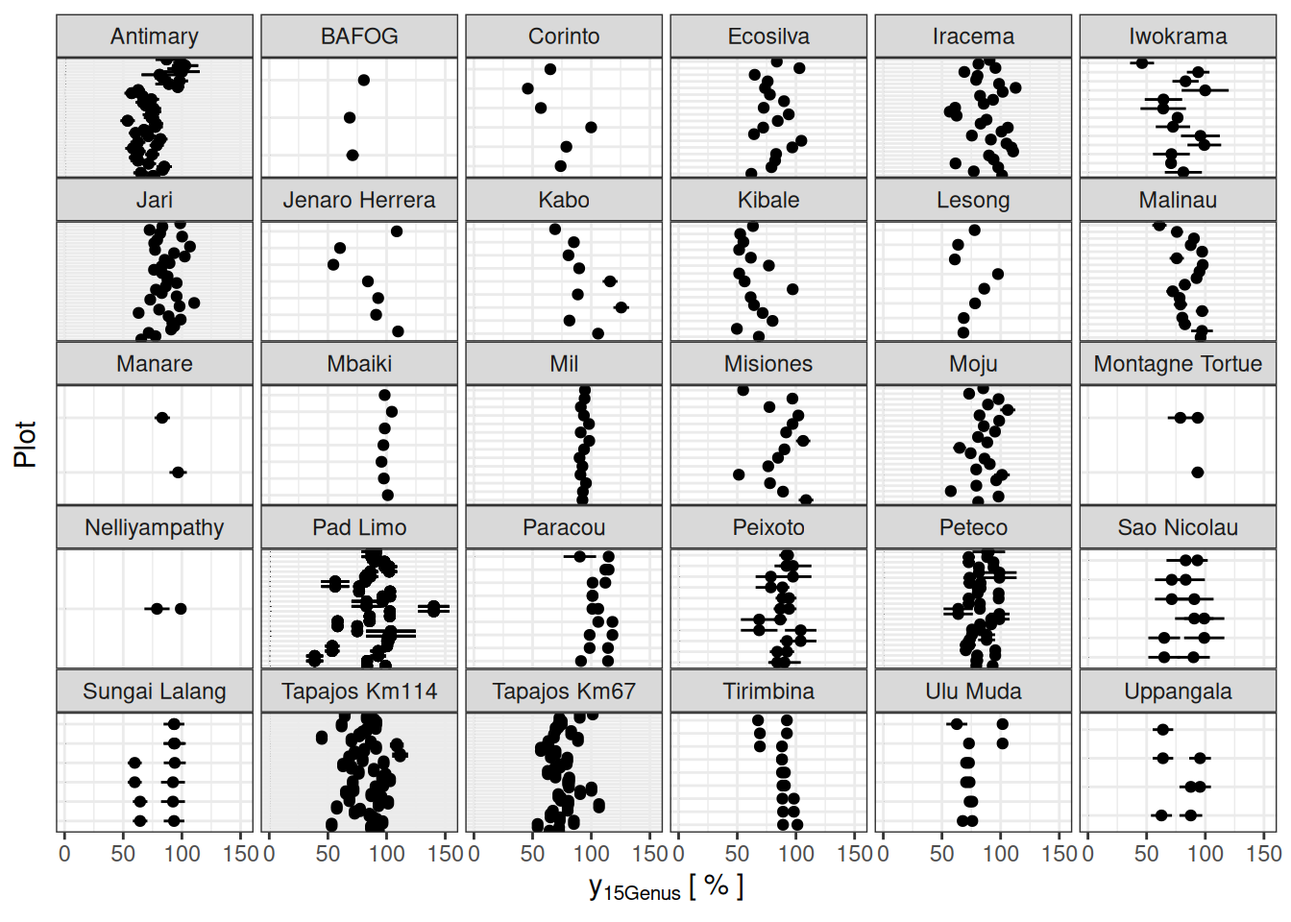
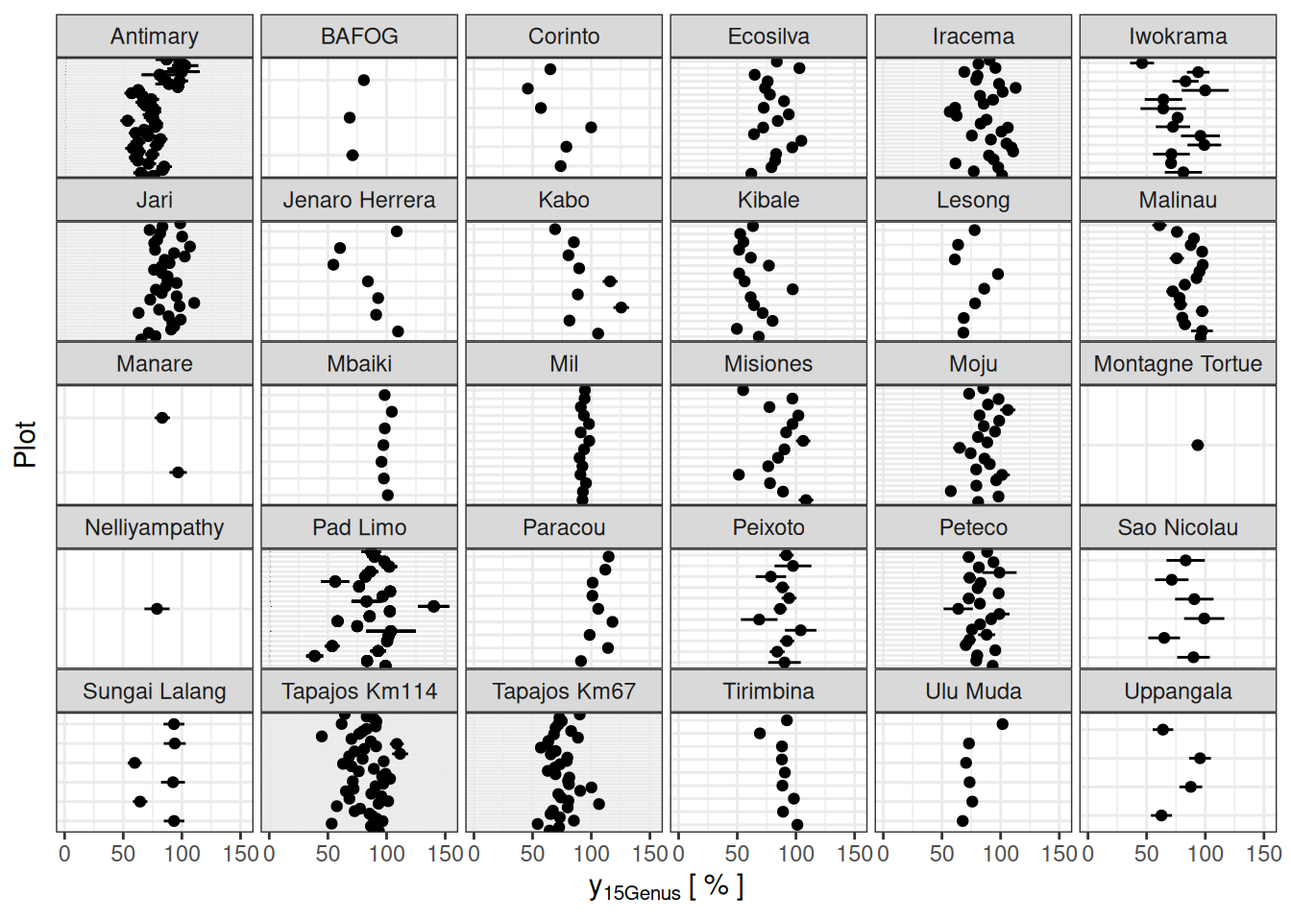
modelling 0.1.0.9043: plotnum fix in pars

diff --git a/docs/60_parameters.html b/docs/60_parameters.html
@@ -331,68 +331,69 @@ pre > code.sourceCode > span > a:first-child::before { text-decoration: underlin
 <div class="sourceCode cell-code" id="cb1"><pre class="sourceCode r code-with-copy"><code class="sourceCode r"><span id="cb1-1"><a href="#cb1-1" aria-hidden="true" tabindex="-1"></a><span class="fu">library</span>(cmdstanr)</span>
 <span id="cb1-2"><a href="#cb1-2" aria-hidden="true" tabindex="-1"></a>tmp_path <span class="ot">&lt;-</span> <span class="fu">file.path</span>(<span class="st">"outputs"</span>, <span class="st">"pars_tmp"</span>)</span>
 <span id="cb1-3"><a href="#cb1-3" aria-hidden="true" tabindex="-1"></a><span class="fu">dir.create</span>(tmp_path)</span>
-<span id="cb1-4"><a href="#cb1-4" aria-hidden="true" tabindex="-1"></a>index_p <span class="ot">&lt;-</span> <span class="fu">read_tsv</span>(<span class="st">"data/derived_data/data_rec.tsv"</span>) <span class="sc">%&gt;%</span></span>
-<span id="cb1-5"><a href="#cb1-5" aria-hidden="true" tabindex="-1"></a>  <span class="fu">select</span>(site, plot, sitenum, plotnum) <span class="sc">%&gt;%</span></span>
-<span id="cb1-6"><a href="#cb1-6" aria-hidden="true" tabindex="-1"></a>  <span class="fu">unique</span>()</span>
-<span id="cb1-7"><a href="#cb1-7" aria-hidden="true" tabindex="-1"></a>index_s <span class="ot">&lt;-</span> index_p <span class="sc">%&gt;%</span></span>
-<span id="cb1-8"><a href="#cb1-8" aria-hidden="true" tabindex="-1"></a>  <span class="fu">mutate</span>(<span class="at">plot =</span> <span class="cn">NA</span>, <span class="at">plotnum =</span> <span class="cn">NA</span>) <span class="sc">%&gt;%</span></span>
-<span id="cb1-9"><a href="#cb1-9" aria-hidden="true" tabindex="-1"></a>  <span class="fu">unique</span>()</span>
-<span id="cb1-10"><a href="#cb1-10" aria-hidden="true" tabindex="-1"></a>vars <span class="ot">&lt;-</span> <span class="fu">c</span>(</span>
-<span id="cb1-11"><a href="#cb1-11" aria-hidden="true" tabindex="-1"></a>  <span class="st">"ba"</span>, <span class="st">"agb"</span>, <span class="st">"nstem"</span>, <span class="st">"gini"</span>,</span>
-<span id="cb1-12"><a href="#cb1-12" aria-hidden="true" tabindex="-1"></a>  <span class="st">"diversity_q1_gen"</span>, <span class="st">"FDiv"</span>,</span>
-<span id="cb1-13"><a href="#cb1-13" aria-hidden="true" tabindex="-1"></a>  <span class="st">"WD_cwm_ba"</span>, <span class="st">"SLA_cwm_ba"</span></span>
-<span id="cb1-14"><a href="#cb1-14" aria-hidden="true" tabindex="-1"></a>)</span>
-<span id="cb1-15"><a href="#cb1-15" aria-hidden="true" tabindex="-1"></a><span class="cf">for</span> (var <span class="cf">in</span> vars) {</span>
-<span id="cb1-16"><a href="#cb1-16" aria-hidden="true" tabindex="-1"></a>  path <span class="ot">&lt;-</span> <span class="fu">file.path</span>(<span class="st">"chains"</span>, <span class="fu">paste0</span>(<span class="st">"rec_"</span>, var))</span>
-<span id="cb1-17"><a href="#cb1-17" aria-hidden="true" tabindex="-1"></a>  fit <span class="ot">&lt;-</span> <span class="fu">as_cmdstan_fit</span>(<span class="fu">list.files</span>(path, <span class="at">full.names =</span> <span class="cn">TRUE</span>))</span>
-<span id="cb1-18"><a href="#cb1-18" aria-hidden="true" tabindex="-1"></a>  pars_a <span class="ot">&lt;-</span> fit<span class="sc">$</span><span class="fu">summary</span>(<span class="fu">c</span>(</span>
-<span id="cb1-19"><a href="#cb1-19" aria-hidden="true" tabindex="-1"></a>    <span class="st">"lp__"</span>,</span>
-<span id="cb1-20"><a href="#cb1-20" aria-hidden="true" tabindex="-1"></a>    <span class="co"># "mu_phi", "mu_phipct",</span></span>
-<span id="cb1-21"><a href="#cb1-21" aria-hidden="true" tabindex="-1"></a>    <span class="st">"mu_delta"</span>, <span class="st">"mu_deltapct"</span>,</span>
-<span id="cb1-22"><a href="#cb1-22" aria-hidden="true" tabindex="-1"></a>    <span class="st">"mu_tau0"</span>, <span class="st">"mu_tau"</span>,</span>
-<span id="cb1-23"><a href="#cb1-23" aria-hidden="true" tabindex="-1"></a>    <span class="st">"mu_lambda"</span>, <span class="st">"mu_t90"</span></span>
-<span id="cb1-24"><a href="#cb1-24" aria-hidden="true" tabindex="-1"></a>  )) <span class="sc">%&gt;%</span></span>
-<span id="cb1-25"><a href="#cb1-25" aria-hidden="true" tabindex="-1"></a>    <span class="fu">rename</span>(<span class="at">parameter =</span> variable) <span class="sc">%&gt;%</span></span>
-<span id="cb1-26"><a href="#cb1-26" aria-hidden="true" tabindex="-1"></a>    <span class="fu">mutate</span>(</span>
-<span id="cb1-27"><a href="#cb1-27" aria-hidden="true" tabindex="-1"></a>      <span class="at">level =</span> <span class="st">"inter"</span>, <span class="at">site =</span> <span class="cn">NA</span>, <span class="at">plot =</span> <span class="cn">NA</span>,</span>
-<span id="cb1-28"><a href="#cb1-28" aria-hidden="true" tabindex="-1"></a>      <span class="at">sitenum =</span> <span class="cn">NA</span>, <span class="at">plotnum_rec =</span> <span class="cn">NA</span></span>
-<span id="cb1-29"><a href="#cb1-29" aria-hidden="true" tabindex="-1"></a>    ) <span class="sc">%&gt;%</span></span>
-<span id="cb1-30"><a href="#cb1-30" aria-hidden="true" tabindex="-1"></a>    <span class="fu">select</span>(</span>
-<span id="cb1-31"><a href="#cb1-31" aria-hidden="true" tabindex="-1"></a>      parameter, level, site, plot, sitenum, plotnum_rec,</span>
-<span id="cb1-32"><a href="#cb1-32" aria-hidden="true" tabindex="-1"></a>      mean, median, sd, mad, q5, q95,</span>
-<span id="cb1-33"><a href="#cb1-33" aria-hidden="true" tabindex="-1"></a>      rhat, ess_bulk, ess_tail</span>
-<span id="cb1-34"><a href="#cb1-34" aria-hidden="true" tabindex="-1"></a>    )</span>
-<span id="cb1-35"><a href="#cb1-35" aria-hidden="true" tabindex="-1"></a>  pars_s <span class="ot">&lt;-</span> fit<span class="sc">$</span><span class="fu">summary</span>(<span class="fu">c</span>(<span class="st">"tau_s"</span>, <span class="st">"tau0_s"</span>, <span class="st">"theta_s"</span>)) <span class="sc">%&gt;%</span></span>
-<span id="cb1-36"><a href="#cb1-36" aria-hidden="true" tabindex="-1"></a>    <span class="fu">separate</span>(variable, <span class="fu">c</span>(<span class="st">"parameter"</span>, <span class="st">"s"</span>, <span class="st">"sitenum"</span>), <span class="at">convert =</span> <span class="cn">TRUE</span>) <span class="sc">%&gt;%</span></span>
-<span id="cb1-37"><a href="#cb1-37" aria-hidden="true" tabindex="-1"></a>    <span class="fu">select</span>(<span class="sc">-</span>s) <span class="sc">%&gt;%</span></span>
-<span id="cb1-38"><a href="#cb1-38" aria-hidden="true" tabindex="-1"></a>    <span class="fu">left_join</span>(index_s) <span class="sc">%&gt;%</span></span>
-<span id="cb1-39"><a href="#cb1-39" aria-hidden="true" tabindex="-1"></a>    <span class="fu">mutate</span>(<span class="at">level =</span> <span class="st">"site"</span>) <span class="sc">%&gt;%</span></span>
-<span id="cb1-40"><a href="#cb1-40" aria-hidden="true" tabindex="-1"></a>    <span class="fu">select</span>(</span>
-<span id="cb1-41"><a href="#cb1-41" aria-hidden="true" tabindex="-1"></a>      parameter, level, site, plot, sitenum, plotnum,</span>
-<span id="cb1-42"><a href="#cb1-42" aria-hidden="true" tabindex="-1"></a>      mean, median, sd, mad, q5, q95,</span>
-<span id="cb1-43"><a href="#cb1-43" aria-hidden="true" tabindex="-1"></a>      rhat, ess_bulk, ess_tail</span>
-<span id="cb1-44"><a href="#cb1-44" aria-hidden="true" tabindex="-1"></a>    )</span>
-<span id="cb1-45"><a href="#cb1-45" aria-hidden="true" tabindex="-1"></a>  pars_p <span class="ot">&lt;-</span> fit<span class="sc">$</span><span class="fu">summary</span>(<span class="fu">c</span>(</span>
-<span id="cb1-46"><a href="#cb1-46" aria-hidden="true" tabindex="-1"></a>    <span class="st">"phi_p"</span>, <span class="st">"phipct_p"</span>,</span>
-<span id="cb1-47"><a href="#cb1-47" aria-hidden="true" tabindex="-1"></a>    <span class="st">"delta_p"</span>, <span class="st">"deltapct_p"</span>,</span>
-<span id="cb1-48"><a href="#cb1-48" aria-hidden="true" tabindex="-1"></a>    <span class="st">"lambda_p"</span>, <span class="st">"y15_p"</span>, <span class="st">"t90_p"</span></span>
-<span id="cb1-49"><a href="#cb1-49" aria-hidden="true" tabindex="-1"></a>  )) <span class="sc">%&gt;%</span></span>
-<span id="cb1-50"><a href="#cb1-50" aria-hidden="true" tabindex="-1"></a>    <span class="fu">separate</span>(variable, <span class="fu">c</span>(<span class="st">"parameter"</span>, <span class="st">"p"</span>, <span class="st">"plotnum"</span>), <span class="at">convert =</span> <span class="cn">TRUE</span>) <span class="sc">%&gt;%</span></span>
-<span id="cb1-51"><a href="#cb1-51" aria-hidden="true" tabindex="-1"></a>    <span class="fu">select</span>(<span class="sc">-</span>p) <span class="sc">%&gt;%</span></span>
-<span id="cb1-52"><a href="#cb1-52" aria-hidden="true" tabindex="-1"></a>    <span class="fu">left_join</span>(index_p) <span class="sc">%&gt;%</span></span>
-<span id="cb1-53"><a href="#cb1-53" aria-hidden="true" tabindex="-1"></a>    <span class="fu">mutate</span>(<span class="at">level =</span> <span class="st">"plot"</span>) <span class="sc">%&gt;%</span></span>
-<span id="cb1-54"><a href="#cb1-54" aria-hidden="true" tabindex="-1"></a>    <span class="fu">select</span>(</span>
-<span id="cb1-55"><a href="#cb1-55" aria-hidden="true" tabindex="-1"></a>      parameter, level, site, plot, sitenum, plotnum,</span>
-<span id="cb1-56"><a href="#cb1-56" aria-hidden="true" tabindex="-1"></a>      mean, median, sd, mad, q5, q95,</span>
-<span id="cb1-57"><a href="#cb1-57" aria-hidden="true" tabindex="-1"></a>      rhat, ess_bulk, ess_tail</span>
-<span id="cb1-58"><a href="#cb1-58" aria-hidden="true" tabindex="-1"></a>    )</span>
-<span id="cb1-59"><a href="#cb1-59" aria-hidden="true" tabindex="-1"></a>  <span class="fu">bind_rows</span>(pars_a, pars_s, pars_p) <span class="sc">%&gt;%</span></span>
-<span id="cb1-60"><a href="#cb1-60" aria-hidden="true" tabindex="-1"></a>    <span class="fu">mutate</span>(<span class="at">attribute =</span> var, <span class="at">.before =</span> parameter) <span class="sc">%&gt;%</span></span>
-<span id="cb1-61"><a href="#cb1-61" aria-hidden="true" tabindex="-1"></a>    <span class="fu">write_tsv</span>(<span class="fu">file.path</span>(tmp_path, <span class="fu">paste0</span>(var, <span class="st">"_pars.tsv"</span>)))</span>
-<span id="cb1-62"><a href="#cb1-62" aria-hidden="true" tabindex="-1"></a>}</span>
-<span id="cb1-63"><a href="#cb1-63" aria-hidden="true" tabindex="-1"></a><span class="fu">read_tsv</span>(<span class="fu">list.files</span>(tmp_path, <span class="at">pattern =</span> <span class="st">"pars"</span>, <span class="at">full.names =</span> <span class="cn">TRUE</span>)) <span class="sc">%&gt;%</span></span>
-<span id="cb1-64"><a href="#cb1-64" aria-hidden="true" tabindex="-1"></a>  <span class="fu">write_tsv</span>(<span class="st">"outputs/raw_parameters.tsv"</span>)</span>
-<span id="cb1-65"><a href="#cb1-65" aria-hidden="true" tabindex="-1"></a><span class="fu">unlink</span>(tmp_path, <span class="at">recursive =</span> <span class="cn">TRUE</span>)</span></code><button title="Copy to Clipboard" class="code-copy-button"><i class="bi"></i></button></pre></div>
+<span id="cb1-4"><a href="#cb1-4" aria-hidden="true" tabindex="-1"></a>vars <span class="ot">&lt;-</span> <span class="fu">c</span>(</span>
+<span id="cb1-5"><a href="#cb1-5" aria-hidden="true" tabindex="-1"></a>  <span class="st">"ba"</span>, <span class="st">"agb"</span>, <span class="st">"nstem"</span>, <span class="st">"gini"</span>,</span>
+<span id="cb1-6"><a href="#cb1-6" aria-hidden="true" tabindex="-1"></a>  <span class="st">"diversity_q1_gen"</span>, <span class="st">"FDiv"</span>,</span>
+<span id="cb1-7"><a href="#cb1-7" aria-hidden="true" tabindex="-1"></a>  <span class="st">"WD_cwm_ba"</span>, <span class="st">"SLA_cwm_ba"</span></span>
+<span id="cb1-8"><a href="#cb1-8" aria-hidden="true" tabindex="-1"></a>)</span>
+<span id="cb1-9"><a href="#cb1-9" aria-hidden="true" tabindex="-1"></a><span class="cf">for</span> (var <span class="cf">in</span> vars) {</span>
+<span id="cb1-10"><a href="#cb1-10" aria-hidden="true" tabindex="-1"></a>  index_p <span class="ot">&lt;-</span> <span class="fu">read_tsv</span>(<span class="st">"data/derived_data/data_rec.tsv"</span>) <span class="sc">%&gt;%</span></span>
+<span id="cb1-11"><a href="#cb1-11" aria-hidden="true" tabindex="-1"></a>    <span class="fu">filter</span>(variable <span class="sc">==</span> var) <span class="sc">%&gt;%</span> </span>
+<span id="cb1-12"><a href="#cb1-12" aria-hidden="true" tabindex="-1"></a>    <span class="fu">select</span>(site, plot, sitenum, plotnum) <span class="sc">%&gt;%</span></span>
+<span id="cb1-13"><a href="#cb1-13" aria-hidden="true" tabindex="-1"></a>    <span class="fu">unique</span>()</span>
+<span id="cb1-14"><a href="#cb1-14" aria-hidden="true" tabindex="-1"></a>  index_s <span class="ot">&lt;-</span> index_p <span class="sc">%&gt;%</span></span>
+<span id="cb1-15"><a href="#cb1-15" aria-hidden="true" tabindex="-1"></a>    <span class="fu">mutate</span>(<span class="at">plot =</span> <span class="cn">NA</span>, <span class="at">plotnum =</span> <span class="cn">NA</span>) <span class="sc">%&gt;%</span></span>
+<span id="cb1-16"><a href="#cb1-16" aria-hidden="true" tabindex="-1"></a>    <span class="fu">unique</span>()</span>
+<span id="cb1-17"><a href="#cb1-17" aria-hidden="true" tabindex="-1"></a>  path <span class="ot">&lt;-</span> <span class="fu">file.path</span>(<span class="st">"chains"</span>, <span class="fu">paste0</span>(<span class="st">"rec_"</span>, var))</span>
+<span id="cb1-18"><a href="#cb1-18" aria-hidden="true" tabindex="-1"></a>  fit <span class="ot">&lt;-</span> <span class="fu">as_cmdstan_fit</span>(<span class="fu">list.files</span>(path, <span class="at">full.names =</span> <span class="cn">TRUE</span>))</span>
+<span id="cb1-19"><a href="#cb1-19" aria-hidden="true" tabindex="-1"></a>  pars_a <span class="ot">&lt;-</span> fit<span class="sc">$</span><span class="fu">summary</span>(<span class="fu">c</span>(</span>
+<span id="cb1-20"><a href="#cb1-20" aria-hidden="true" tabindex="-1"></a>    <span class="st">"lp__"</span>,</span>
+<span id="cb1-21"><a href="#cb1-21" aria-hidden="true" tabindex="-1"></a>    <span class="co"># "mu_phi", "mu_phipct",</span></span>
+<span id="cb1-22"><a href="#cb1-22" aria-hidden="true" tabindex="-1"></a>    <span class="st">"mu_delta"</span>, <span class="st">"mu_deltapct"</span>,</span>
+<span id="cb1-23"><a href="#cb1-23" aria-hidden="true" tabindex="-1"></a>    <span class="st">"mu_tau0"</span>, <span class="st">"mu_tau"</span>,</span>
+<span id="cb1-24"><a href="#cb1-24" aria-hidden="true" tabindex="-1"></a>    <span class="st">"mu_lambda"</span>, <span class="st">"mu_t90"</span></span>
+<span id="cb1-25"><a href="#cb1-25" aria-hidden="true" tabindex="-1"></a>  )) <span class="sc">%&gt;%</span></span>
+<span id="cb1-26"><a href="#cb1-26" aria-hidden="true" tabindex="-1"></a>    <span class="fu">rename</span>(<span class="at">parameter =</span> variable) <span class="sc">%&gt;%</span></span>
+<span id="cb1-27"><a href="#cb1-27" aria-hidden="true" tabindex="-1"></a>    <span class="fu">mutate</span>(</span>
+<span id="cb1-28"><a href="#cb1-28" aria-hidden="true" tabindex="-1"></a>      <span class="at">level =</span> <span class="st">"inter"</span>, <span class="at">site =</span> <span class="cn">NA</span>, <span class="at">plot =</span> <span class="cn">NA</span>,</span>
+<span id="cb1-29"><a href="#cb1-29" aria-hidden="true" tabindex="-1"></a>      <span class="at">sitenum =</span> <span class="cn">NA</span>, <span class="at">plotnum_rec =</span> <span class="cn">NA</span></span>
+<span id="cb1-30"><a href="#cb1-30" aria-hidden="true" tabindex="-1"></a>    ) <span class="sc">%&gt;%</span></span>
+<span id="cb1-31"><a href="#cb1-31" aria-hidden="true" tabindex="-1"></a>    <span class="fu">select</span>(</span>
+<span id="cb1-32"><a href="#cb1-32" aria-hidden="true" tabindex="-1"></a>      parameter, level, site, plot, sitenum, plotnum_rec,</span>
+<span id="cb1-33"><a href="#cb1-33" aria-hidden="true" tabindex="-1"></a>      mean, median, sd, mad, q5, q95,</span>
+<span id="cb1-34"><a href="#cb1-34" aria-hidden="true" tabindex="-1"></a>      rhat, ess_bulk, ess_tail</span>
+<span id="cb1-35"><a href="#cb1-35" aria-hidden="true" tabindex="-1"></a>    )</span>
+<span id="cb1-36"><a href="#cb1-36" aria-hidden="true" tabindex="-1"></a>  pars_s <span class="ot">&lt;-</span> fit<span class="sc">$</span><span class="fu">summary</span>(<span class="fu">c</span>(<span class="st">"tau_s"</span>, <span class="st">"tau0_s"</span>, <span class="st">"theta_s"</span>)) <span class="sc">%&gt;%</span></span>
+<span id="cb1-37"><a href="#cb1-37" aria-hidden="true" tabindex="-1"></a>    <span class="fu">separate</span>(variable, <span class="fu">c</span>(<span class="st">"parameter"</span>, <span class="st">"s"</span>, <span class="st">"sitenum"</span>), <span class="at">convert =</span> <span class="cn">TRUE</span>) <span class="sc">%&gt;%</span></span>
+<span id="cb1-38"><a href="#cb1-38" aria-hidden="true" tabindex="-1"></a>    <span class="fu">select</span>(<span class="sc">-</span>s) <span class="sc">%&gt;%</span></span>
+<span id="cb1-39"><a href="#cb1-39" aria-hidden="true" tabindex="-1"></a>    <span class="fu">left_join</span>(index_s) <span class="sc">%&gt;%</span></span>
+<span id="cb1-40"><a href="#cb1-40" aria-hidden="true" tabindex="-1"></a>    <span class="fu">mutate</span>(<span class="at">level =</span> <span class="st">"site"</span>) <span class="sc">%&gt;%</span></span>
+<span id="cb1-41"><a href="#cb1-41" aria-hidden="true" tabindex="-1"></a>    <span class="fu">select</span>(</span>
+<span id="cb1-42"><a href="#cb1-42" aria-hidden="true" tabindex="-1"></a>      parameter, level, site, plot, sitenum, plotnum,</span>
+<span id="cb1-43"><a href="#cb1-43" aria-hidden="true" tabindex="-1"></a>      mean, median, sd, mad, q5, q95,</span>
+<span id="cb1-44"><a href="#cb1-44" aria-hidden="true" tabindex="-1"></a>      rhat, ess_bulk, ess_tail</span>
+<span id="cb1-45"><a href="#cb1-45" aria-hidden="true" tabindex="-1"></a>    )</span>
+<span id="cb1-46"><a href="#cb1-46" aria-hidden="true" tabindex="-1"></a>  pars_p <span class="ot">&lt;-</span> fit<span class="sc">$</span><span class="fu">summary</span>(<span class="fu">c</span>(</span>
+<span id="cb1-47"><a href="#cb1-47" aria-hidden="true" tabindex="-1"></a>    <span class="st">"phi_p"</span>, <span class="st">"phipct_p"</span>,</span>
+<span id="cb1-48"><a href="#cb1-48" aria-hidden="true" tabindex="-1"></a>    <span class="st">"delta_p"</span>, <span class="st">"deltapct_p"</span>,</span>
+<span id="cb1-49"><a href="#cb1-49" aria-hidden="true" tabindex="-1"></a>    <span class="st">"lambda_p"</span>, <span class="st">"y15_p"</span>, <span class="st">"t90_p"</span></span>
+<span id="cb1-50"><a href="#cb1-50" aria-hidden="true" tabindex="-1"></a>  )) <span class="sc">%&gt;%</span></span>
+<span id="cb1-51"><a href="#cb1-51" aria-hidden="true" tabindex="-1"></a>    <span class="fu">separate</span>(variable, <span class="fu">c</span>(<span class="st">"parameter"</span>, <span class="st">"p"</span>, <span class="st">"plotnum"</span>), <span class="at">convert =</span> <span class="cn">TRUE</span>) <span class="sc">%&gt;%</span></span>
+<span id="cb1-52"><a href="#cb1-52" aria-hidden="true" tabindex="-1"></a>    <span class="fu">select</span>(<span class="sc">-</span>p) <span class="sc">%&gt;%</span></span>
+<span id="cb1-53"><a href="#cb1-53" aria-hidden="true" tabindex="-1"></a>    <span class="fu">left_join</span>(index_p) <span class="sc">%&gt;%</span></span>
+<span id="cb1-54"><a href="#cb1-54" aria-hidden="true" tabindex="-1"></a>    <span class="fu">mutate</span>(<span class="at">level =</span> <span class="st">"plot"</span>) <span class="sc">%&gt;%</span></span>
+<span id="cb1-55"><a href="#cb1-55" aria-hidden="true" tabindex="-1"></a>    <span class="fu">select</span>(</span>
+<span id="cb1-56"><a href="#cb1-56" aria-hidden="true" tabindex="-1"></a>      parameter, level, site, plot, sitenum, plotnum,</span>
+<span id="cb1-57"><a href="#cb1-57" aria-hidden="true" tabindex="-1"></a>      mean, median, sd, mad, q5, q95,</span>
+<span id="cb1-58"><a href="#cb1-58" aria-hidden="true" tabindex="-1"></a>      rhat, ess_bulk, ess_tail</span>
+<span id="cb1-59"><a href="#cb1-59" aria-hidden="true" tabindex="-1"></a>    )</span>
+<span id="cb1-60"><a href="#cb1-60" aria-hidden="true" tabindex="-1"></a>  <span class="fu">bind_rows</span>(pars_a, pars_s, pars_p) <span class="sc">%&gt;%</span></span>
+<span id="cb1-61"><a href="#cb1-61" aria-hidden="true" tabindex="-1"></a>    <span class="fu">mutate</span>(<span class="at">attribute =</span> var, <span class="at">.before =</span> parameter) <span class="sc">%&gt;%</span></span>
+<span id="cb1-62"><a href="#cb1-62" aria-hidden="true" tabindex="-1"></a>    <span class="fu">write_tsv</span>(<span class="fu">file.path</span>(tmp_path, <span class="fu">paste0</span>(var, <span class="st">"_pars.tsv"</span>)))</span>
+<span id="cb1-63"><a href="#cb1-63" aria-hidden="true" tabindex="-1"></a>}</span>
+<span id="cb1-64"><a href="#cb1-64" aria-hidden="true" tabindex="-1"></a><span class="fu">read_tsv</span>(<span class="fu">list.files</span>(tmp_path, <span class="at">pattern =</span> <span class="st">"pars"</span>, <span class="at">full.names =</span> <span class="cn">TRUE</span>)) <span class="sc">%&gt;%</span></span>
+<span id="cb1-65"><a href="#cb1-65" aria-hidden="true" tabindex="-1"></a>  <span class="fu">write_tsv</span>(<span class="st">"outputs/raw_parameters.tsv"</span>)</span>
+<span id="cb1-66"><a href="#cb1-66" aria-hidden="true" tabindex="-1"></a><span class="fu">unlink</span>(tmp_path, <span class="at">recursive =</span> <span class="cn">TRUE</span>)</span></code><button title="Copy to Clipboard" class="code-copy-button"><i class="bi"></i></button></pre></div>
 </details>
 </div>
 <div class="cell">

diff --git a/docs/31_ba.html b/docs/31_ba.html
@@ -390,6 +390,42 @@ pre > code.sourceCode > span > a:first-child::before { text-decoration: underlin
 </div>
 </div>
 </div>
+<div class="cell">
+<details>
+<summary>Code</summary>
+<div class="sourceCode cell-code" id="cb8"><pre class="sourceCode r code-with-copy"><code class="sourceCode r"><span id="cb8-1"><a href="#cb8-1" aria-hidden="true" tabindex="-1"></a>dist_obs <span class="ot">&lt;-</span> data<span class="sc">$</span>data_rec <span class="sc">%&gt;%</span> </span>
+<span id="cb8-2"><a href="#cb8-2" aria-hidden="true" tabindex="-1"></a>  <span class="fu">group_by</span>(site, plot) <span class="sc">%&gt;%</span></span>
+<span id="cb8-3"><a href="#cb8-3" aria-hidden="true" tabindex="-1"></a>  <span class="fu">summarise</span>(<span class="at">ba_post =</span> <span class="fu">min</span>(value, <span class="at">na.rm =</span> <span class="cn">TRUE</span>)) <span class="sc">%&gt;%</span> </span>
+<span id="cb8-4"><a href="#cb8-4" aria-hidden="true" tabindex="-1"></a>  <span class="fu">left_join</span>(data<span class="sc">$</span>data_equ <span class="sc">%&gt;%</span></span>
+<span id="cb8-5"><a href="#cb8-5" aria-hidden="true" tabindex="-1"></a>              <span class="fu">filter</span>(rel_year <span class="sc">&lt;=</span> <span class="dv">0</span>) <span class="sc">%&gt;%</span></span>
+<span id="cb8-6"><a href="#cb8-6" aria-hidden="true" tabindex="-1"></a>              <span class="fu">group_by</span>(site, plot) <span class="sc">%&gt;%</span></span>
+<span id="cb8-7"><a href="#cb8-7" aria-hidden="true" tabindex="-1"></a>              <span class="fu">summarise</span>(<span class="at">ba_pre =</span> <span class="fu">median</span>(value, <span class="at">na.rm =</span> <span class="cn">TRUE</span>))) <span class="sc">%&gt;%</span> </span>
+<span id="cb8-8"><a href="#cb8-8" aria-hidden="true" tabindex="-1"></a>  <span class="fu">na.omit</span>() <span class="sc">%&gt;%</span> </span>
+<span id="cb8-9"><a href="#cb8-9" aria-hidden="true" tabindex="-1"></a>  <span class="fu">mutate</span>(<span class="at">dist_obs =</span> (ba_pre <span class="sc">-</span> ba_post) <span class="sc">/</span> ba_pre <span class="sc">*</span> <span class="dv">100</span>) <span class="sc">%&gt;%</span></span>
+<span id="cb8-10"><a href="#cb8-10" aria-hidden="true" tabindex="-1"></a>  <span class="fu">select</span>(site, plot, dist_obs) <span class="sc">%&gt;%</span></span>
+<span id="cb8-11"><a href="#cb8-11" aria-hidden="true" tabindex="-1"></a>  <span class="fu">filter</span>(dist_obs <span class="sc">&gt;</span> <span class="dv">0</span>)</span>
+<span id="cb8-12"><a href="#cb8-12" aria-hidden="true" tabindex="-1"></a>data<span class="sc">$</span>fit_rec<span class="sc">$</span><span class="fu">summary</span>(<span class="st">"phipct_p"</span>) <span class="sc">%&gt;%</span> </span>
+<span id="cb8-13"><a href="#cb8-13" aria-hidden="true" tabindex="-1"></a>  <span class="fu">separate</span>(variable, <span class="fu">c</span>(<span class="st">"X1"</span>, <span class="st">"X2"</span>, <span class="st">"plotnum"</span>), <span class="at">convert =</span> <span class="cn">TRUE</span>) <span class="sc">%&gt;%</span> </span>
+<span id="cb8-14"><a href="#cb8-14" aria-hidden="true" tabindex="-1"></a>  <span class="fu">select</span>(<span class="sc">-</span>X1, <span class="sc">-</span>X2) <span class="sc">%&gt;%</span> </span>
+<span id="cb8-15"><a href="#cb8-15" aria-hidden="true" tabindex="-1"></a>  <span class="fu">left_join</span>(data<span class="sc">$</span>ind_rec) <span class="sc">%&gt;%</span> </span>
+<span id="cb8-16"><a href="#cb8-16" aria-hidden="true" tabindex="-1"></a>  <span class="fu">left_join</span>(dist_obs) <span class="sc">%&gt;%</span></span>
+<span id="cb8-17"><a href="#cb8-17" aria-hidden="true" tabindex="-1"></a>  <span class="fu">na.omit</span>() <span class="sc">%&gt;%</span></span>
+<span id="cb8-18"><a href="#cb8-18" aria-hidden="true" tabindex="-1"></a>  <span class="fu">ggplot</span>(<span class="fu">aes</span>(median, dist_obs)) <span class="sc">+</span></span>
+<span id="cb8-19"><a href="#cb8-19" aria-hidden="true" tabindex="-1"></a>  <span class="fu">geom_abline</span>(<span class="at">col =</span> <span class="st">"darkgrey"</span>) <span class="sc">+</span></span>
+<span id="cb8-20"><a href="#cb8-20" aria-hidden="true" tabindex="-1"></a>  <span class="fu">geom_segment</span>(<span class="fu">aes</span>(<span class="at">x =</span> median <span class="sc">-</span> sd, <span class="at">xend =</span> median <span class="sc">+</span> sd)) <span class="sc">+</span></span>
+<span id="cb8-21"><a href="#cb8-21" aria-hidden="true" tabindex="-1"></a>  <span class="fu">geom_segment</span>(<span class="fu">aes</span>(<span class="at">x =</span> q5, <span class="at">xend =</span> q95), <span class="at">size =</span> .<span class="dv">1</span>) <span class="sc">+</span></span>
+<span id="cb8-22"><a href="#cb8-22" aria-hidden="true" tabindex="-1"></a>  <span class="fu">geom_point</span>() <span class="sc">+</span></span>
+<span id="cb8-23"><a href="#cb8-23" aria-hidden="true" tabindex="-1"></a>  <span class="fu">facet_wrap</span>(<span class="sc">~</span>site) <span class="sc">+</span></span>
+<span id="cb8-24"><a href="#cb8-24" aria-hidden="true" tabindex="-1"></a>  <span class="fu">theme_bw</span>() <span class="sc">+</span></span>
+<span id="cb8-25"><a href="#cb8-25" aria-hidden="true" tabindex="-1"></a>  ggpubr<span class="sc">::</span><span class="fu">stat_cor</span>(<span class="at">size =</span> <span class="dv">3</span>) <span class="sc">+</span></span>
+<span id="cb8-26"><a href="#cb8-26" aria-hidden="true" tabindex="-1"></a>  <span class="fu">xlab</span>(<span class="fu">expression</span>(phi[BA] <span class="sc">~</span> <span class="st">"inferred [ % lost ]"</span>)) <span class="sc">+</span></span>
+<span id="cb8-27"><a href="#cb8-27" aria-hidden="true" tabindex="-1"></a>  <span class="fu">ylab</span>(<span class="fu">expression</span>(dist[BA] <span class="sc">~</span> <span class="st">"observed [ % lost ]"</span>)) <span class="sc">+</span></span>
+<span id="cb8-28"><a href="#cb8-28" aria-hidden="true" tabindex="-1"></a>  <span class="fu">theme</span>(<span class="at">panel.spacing =</span> <span class="fu">unit</span>(<span class="dv">0</span>, <span class="st">"lines"</span>))</span></code><button title="Copy to Clipboard" class="code-copy-button"><i class="bi"></i></button></pre></div>
+</details>
+<div class="cell-output-display">
+<p><img src="31_ba_files/figure-html/eval_phi-1.png" class="img-fluid" width="672"></p>
+</div>
+</div>
 
 
 

diff --git a/NEWS.md b/NEWS.md
@@ -1,3 +1,4 @@
+-   modelling 0.1.0.9043: plotnum fix in pars
 -   modelling 0.1.0.9042: aggregated v82
 -   modelling 0.1.0.9041: aggregated v6 and env updated
 -   modelling 0.1.0.9040: post-trajectories update
